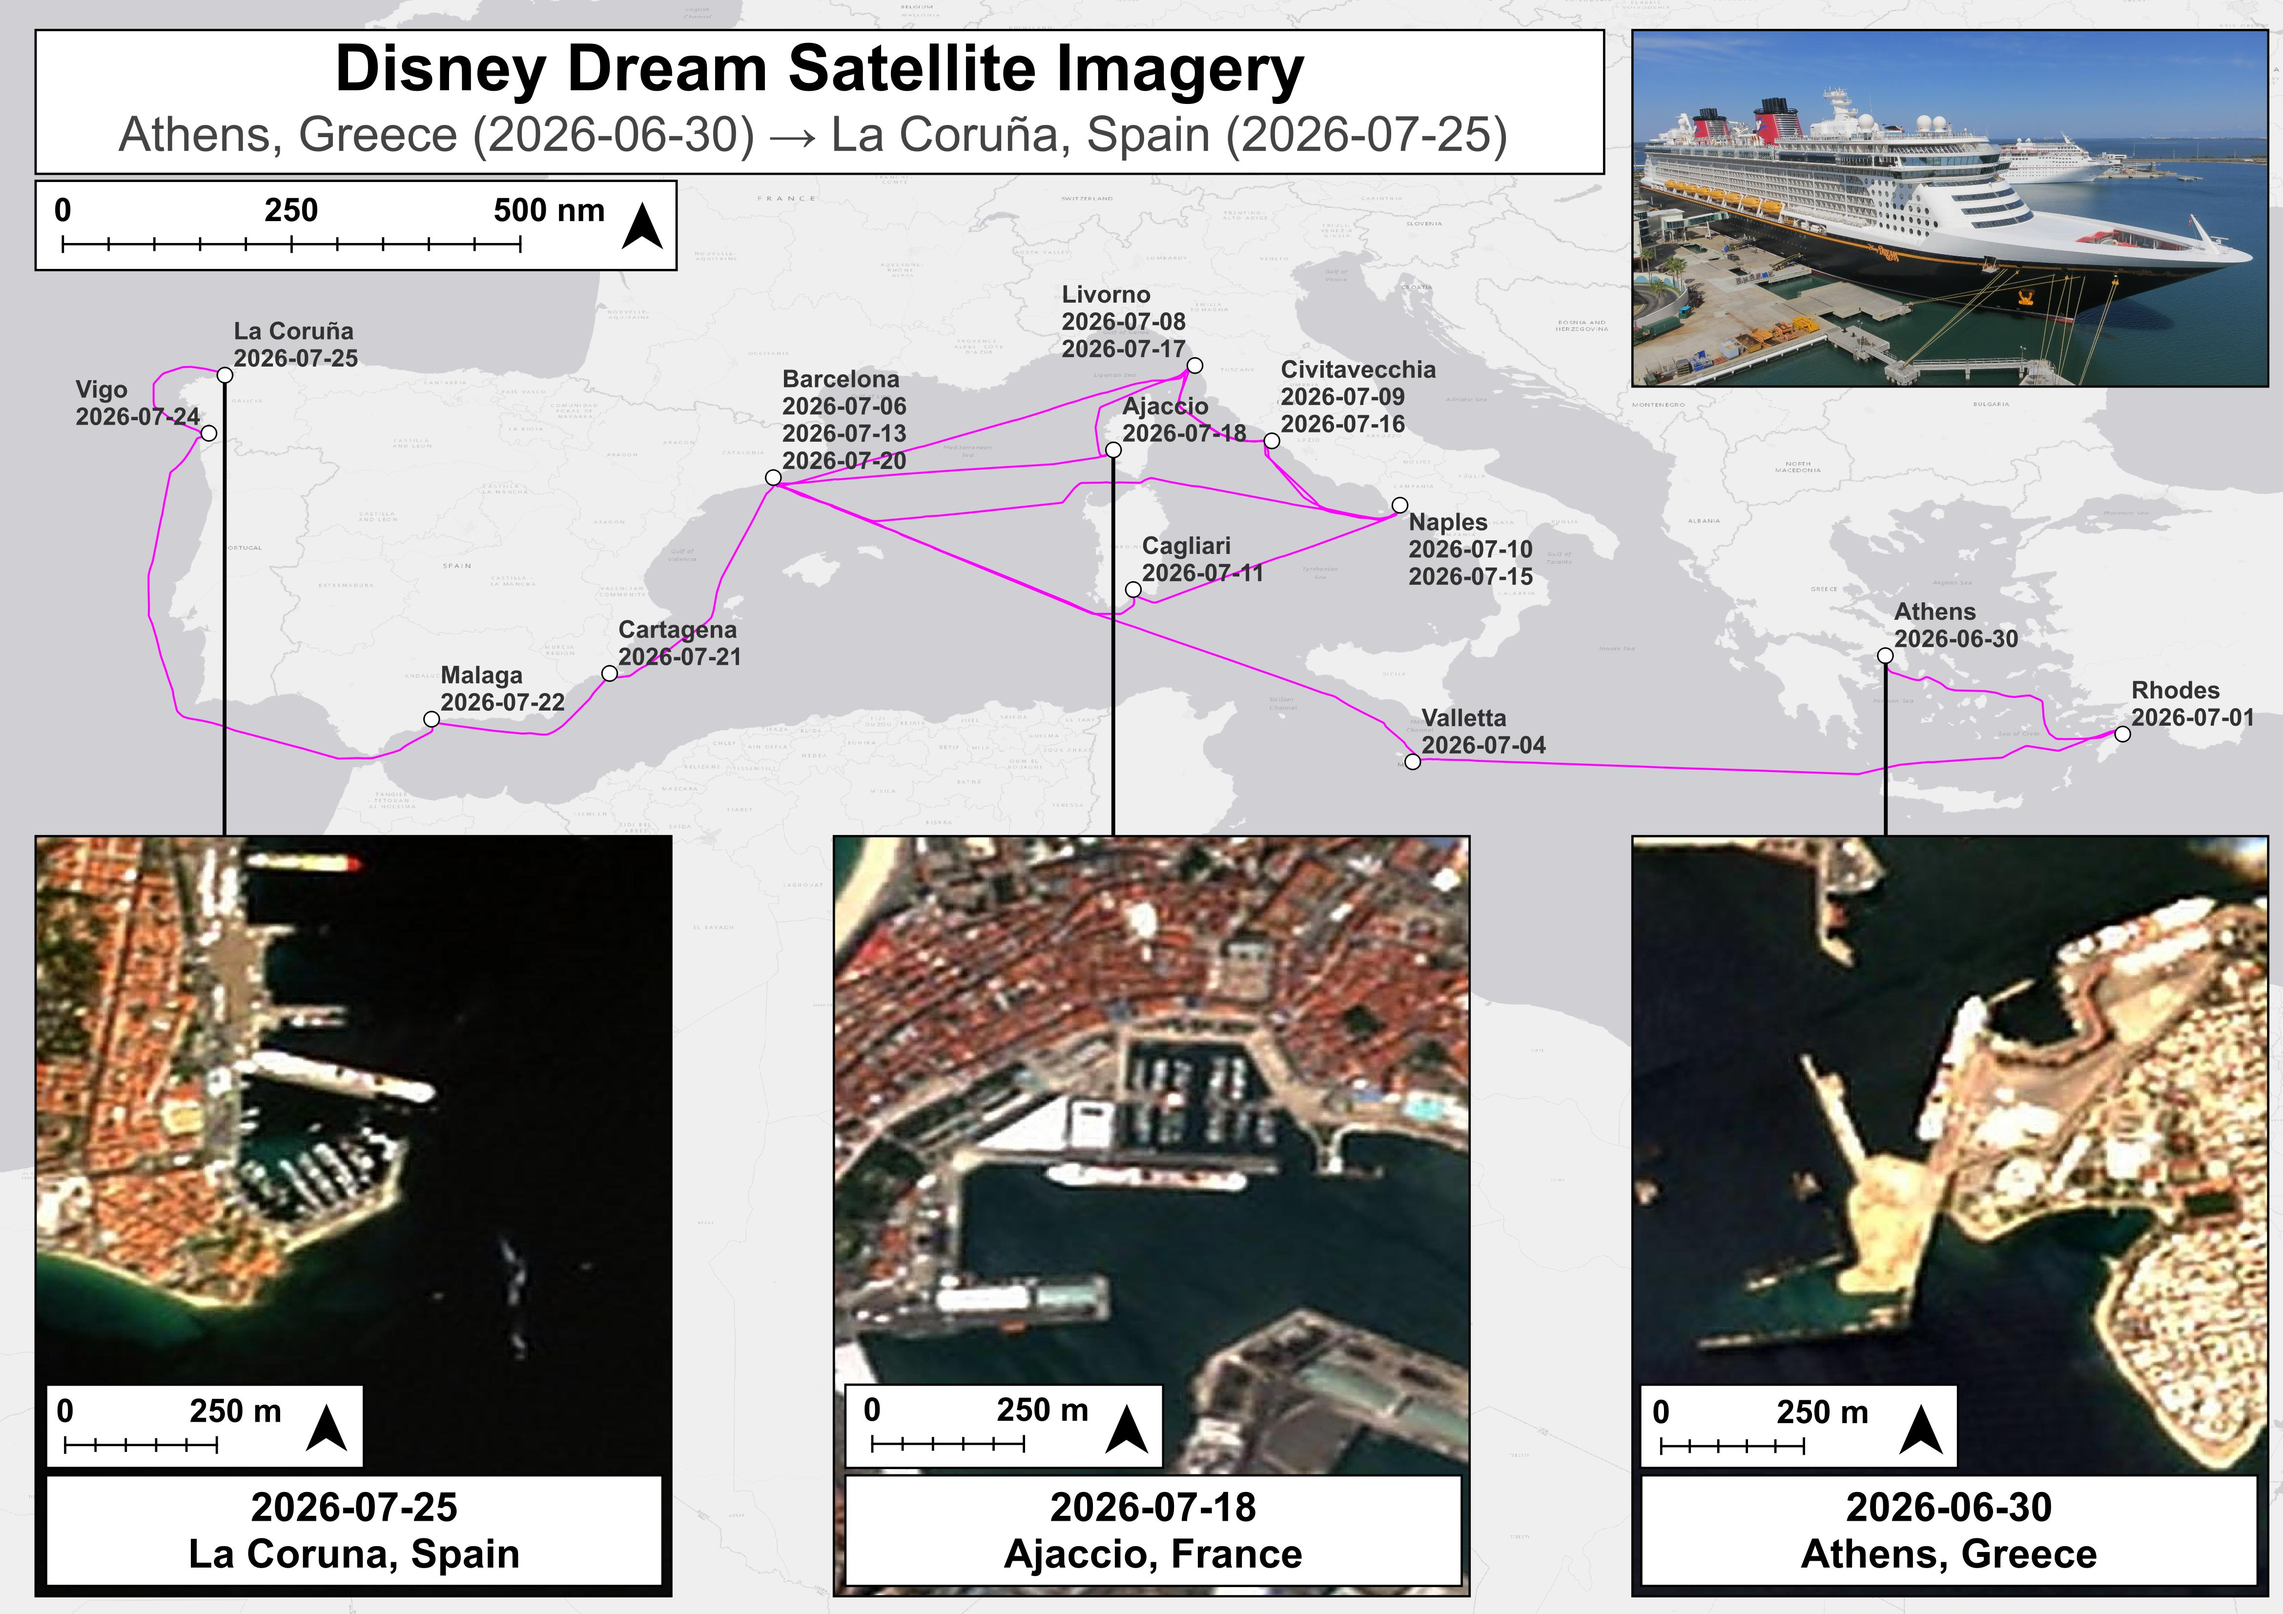
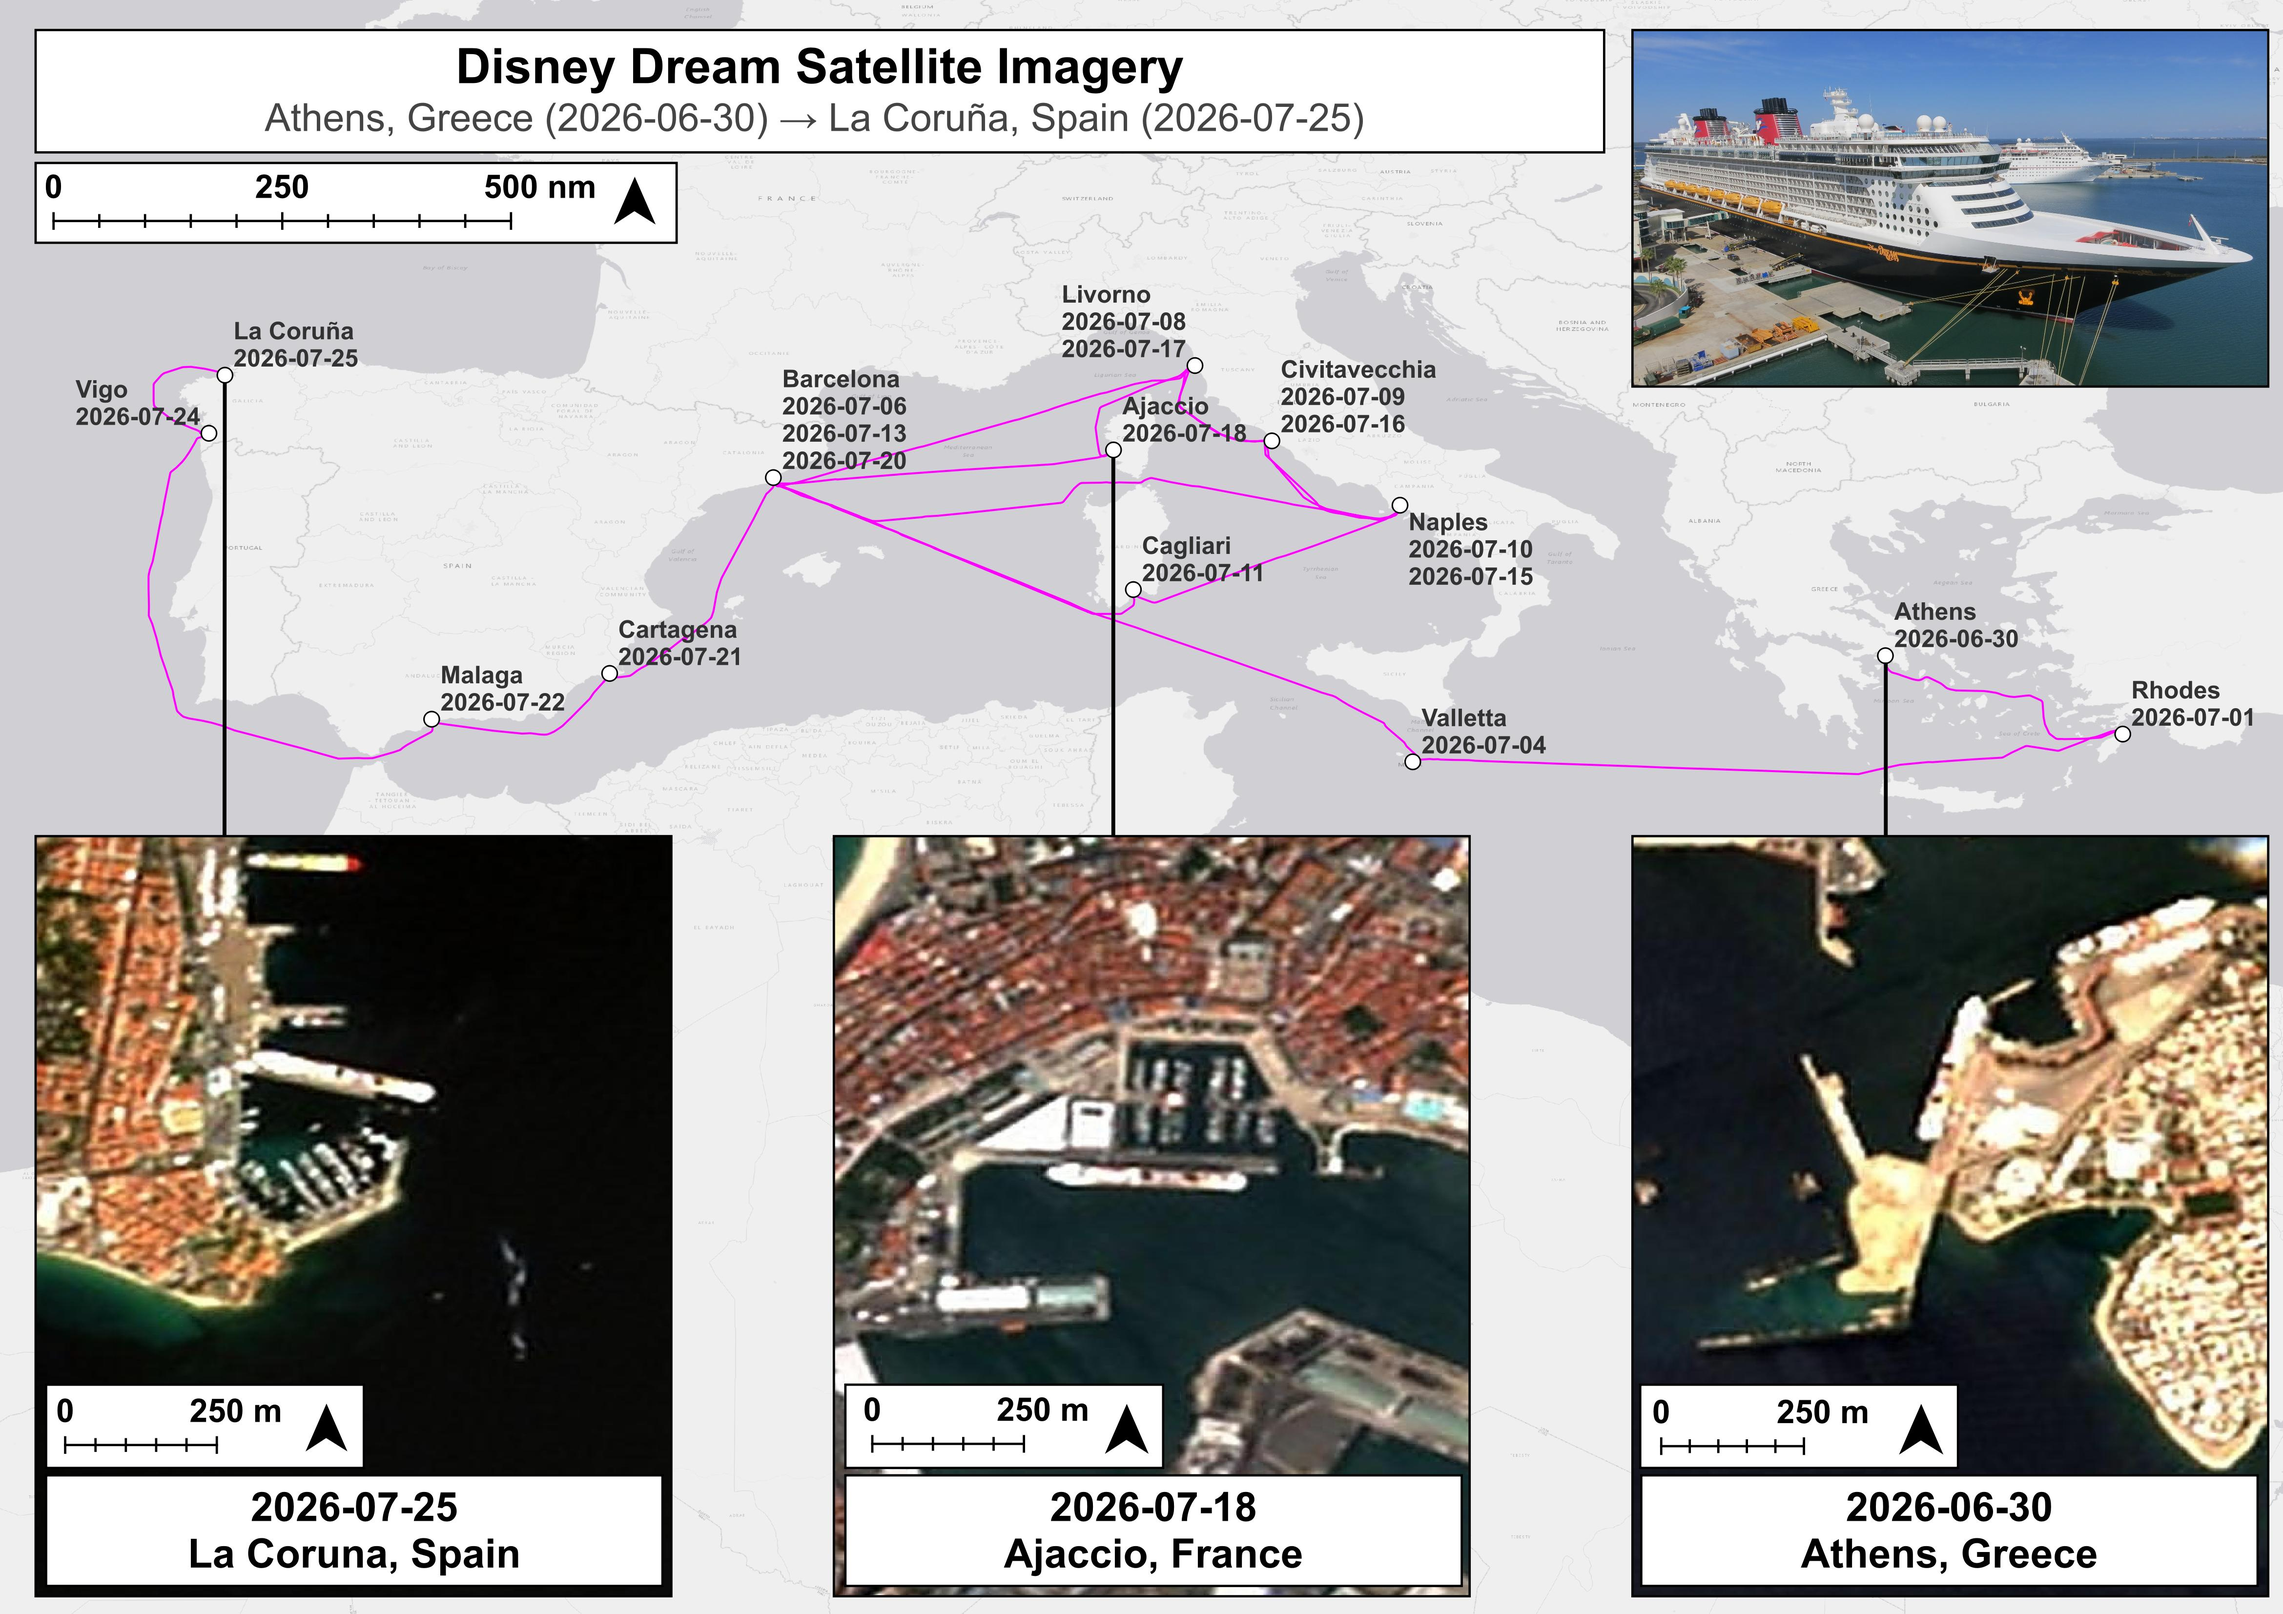
satellite images acquisition process write-up

Changed region(s): [[0.0, 0.0311, 0.6868, 0.1869]]

diff --git a/content/posts/2023/08-15__Space-explorations-next-frontier-the-race-to-reach-mars.md b/content/posts/2023/08-15__Space-explorations-next-frontier-the-race-to-reach-mars.md
@@ -1,46 +1,106 @@
 ---
-title: "Space Exploration's Next Frontier: The Race to Reach Mars"
-date: 2023-08-15T13:45:49+07:00
+title: "Sentinel-2 Vessel Finder"
+date: 2026-08-23T13:45:49+07:00
 slug: /space-explorations-next-frontier/
-description: Explore the exciting endeavors and challenges of reaching Mars in the new era of space exploration.
+description: A Python script that uses the Global Fishing Watch API to retrieve AIS event locations for a vessel and then uses Google Earth Engine to download matching Sentinel‑2 satellite imagery. It generates geospatial metadata files for each image and applies basic enhancements like upscaling, sharpening, and gamma correction. The output is a set of georeferenced, processed satellite images aligned to vessel activity.
 image: images/Disney_Dream_20260822.jpg
 caption: Satellite Images are from Sentinal-2 via Google Earth Engine, Disney Dream Photo by user JamesHills on Pixabay
 categories:
-  - space
+  - Geospatial
 tags:
-  - mars 
-  - space 
-  - exploration
-  - feature
+  - Google Earth Engine 
+  - Global FIshing Watch 
+  - Python
+  - API
+  - Sentinel-2
 draft: false
 ---
 
-The dream of reaching Mars has captured the imagination of scientists, engineers, and space enthusiasts for decades. In recent years, this dream has transformed into a tangible goal, with various space agencies and private companies embarking on missions to make it a reality. In this article, we delve into space exploration's next frontier—the race to reach Mars.
+A Python script that uses the Global Fishing Watch API to retrieve AIS event locations for a vessel and then uses Google Earth Engine to download matching Sentinel‑2 satellite imagery. It generates geospatial metadata files for each image and applies basic enhancements like upscaling, sharpening, and gamma correction. The output is a set of georeferenced, processed satellite images aligned to vessel activity.
 
-## The Martian Challenge
+<!--more-->
 
-Mars, often referred to as the "Red Planet," has long been a subject of fascination. Its potential as a second home for humanity and its scientific allure have driven the ambition to land on its surface. The challenges posed by Mars, including its harsh environment and vast distances, make it a formidable target.
+## 1. Importing Libraries and Setting Up Parameters
 
-## Mars Missions: A New Era
+Libraries used: Google Earth Engine, geemap, pandas, cartopy, PIL, cv2, and others. Parameters: the vessel name, MMSI, date range, and a base directory for storing outputs.
 
-The new era of Mars exploration is marked by a flurry of missions from space agencies and private enterprises. Notable missions include NASA's Perseverance rover, which is exploring the Martian surface, and SpaceX's plans for crewed missions to the planet. These endeavors signify humanity's determination to make Mars a viable destination.
+The notebook includes values such as:
 
-## The Quest for Life on Mars
+- `vessel_mmsi = '311042900'`
+- `max_downloads = '1000'`
 
-One of the most compelling aspects of Mars exploration is the search for signs of past or present life. The discovery of even microbial life on Mars would have profound implications for our understanding of life's potential beyond Earth. Rovers and future missions are equipped with instruments designed to detect such evidence.
+This gives a clean, reproducible setup.
 
-## Challenges of Mars Colonization
+## 2. Authenticating and Querying the Global Fishing Watch API
 
+Loaded GFW API access token from an environment file and created the client. A function is used to resolve the MMSI into GFW vessel IDs. The API returned:
 
-Colonizing Mars presents a host of challenges, from life support systems to radiation protection. Overcoming these hurdles is essential for establishing a sustainable human presence on the planet. Researchers and engineers are working diligently to find solutions to make Mars colonization a reality.
+"Disney Dream”
 
-## The Global Space Race
+With the vessel IDs, port‑visit, encounter, and loitering events within the date range. Geometry was flattened into simple `lat` and `lon` columns and produced a clean DataFrame of AIS events.
 
-Mars has become the focal point of a global space race, with countries and organizations worldwide vying to be the first to reach the planet. International cooperation and competition are driving advancements in space exploration technology and opening new frontiers in human spaceflight.
+## 3. Preparing Earth Engine and Downloading Sentinel‑2 Imagery
 
-## Conclusion: Humanity's Martian Odyssey
+For each AIS event, a buffered bounding box was created around its coordinates.
 
+The COPERNICUS/S2_SR_HARMONIZED collection was queried, filtered by date and cloud cover, selected RGB bands, and downloaded all matching images as JPEGs.
 
-The race to reach Mars is more than a technological challenge; it is a testament to human ingenuity and our unrelenting spirit of exploration. The journey to Mars promises to be humanity's odyssey into the unknown, with each mission bringing us closer to realizing the dream of becoming an interplanetary species.
+Example log entry:
 
-Whether you're an avid follower of space exploration or simply curious about the future of space travel, the race to reach Mars is a captivating chapter in our quest to unlock the mysteries of the cosmos. It reminds us that the cosmos is our next great frontier, waiting to be explored by future generations.
+“Row 2: downloading image 1/2 → row2_20260119T160201…jpg”
+
+## 4. Generating Geospatial Sidecar Files
+
+For each downloaded JPEG, sidecar files were generated:
+
+- a `.jgw` world file  
+- a `.prj` projection file (EPSG:4326)  
+- a `.geojson` metadata file containing bounding box, acquisition date, cloud percentage, and AIS event metadata  
+
+This ensured every image remained geospatially referenced.
+
+## 5. Image Upscaling
+
+Each JPEG was upscaled by 4× using Lanczos resampling. After resizing, the world‑file was recalculated with adjusted pixel size to maintain correct geospatial alignment.
+
+Example log:
+
+“Upscaled row10… to (840, 896)”
+
+## 6. Image Sharpening (Unsharp Mask)
+
+I applied an unsharp mask with:
+
+- radius 2  
+- percent 150  
+- threshold 3  
+
+Sidecar files were copied unchanged.
+
+Example log:
+
+“Sharpened row39_20260705T155129…jpg”
+
+## 7. Gamma Correction
+
+Gamma correction was adjusted (γ = 0.8) to brighten midtones. Geospatial metadata remained untouched.
+
+Example log:
+
+“Gamma corrected row41… (gamma=0.8)”
+
+## 8. Additional Enhancements (Exploratory)
+
+I experimented with vibrance, saturation, contrast, and white balance adjustments, but decided they didn’t meaningfully improve the imagery.
+
+## 9. Final Output Structure
+
+Sentinel‑2 imagery aligned to AIS vessel events was organised into:
+
+- raw downloads  
+- upscaled images  
+- sharpened images  
+- gamma‑corrected images  
+- full geospatial metadata for each file  
+
+This workflow provides a reproducible pipeline for linking AIS events to satellite imagery and enhancing the results for analysis or visualisation.
